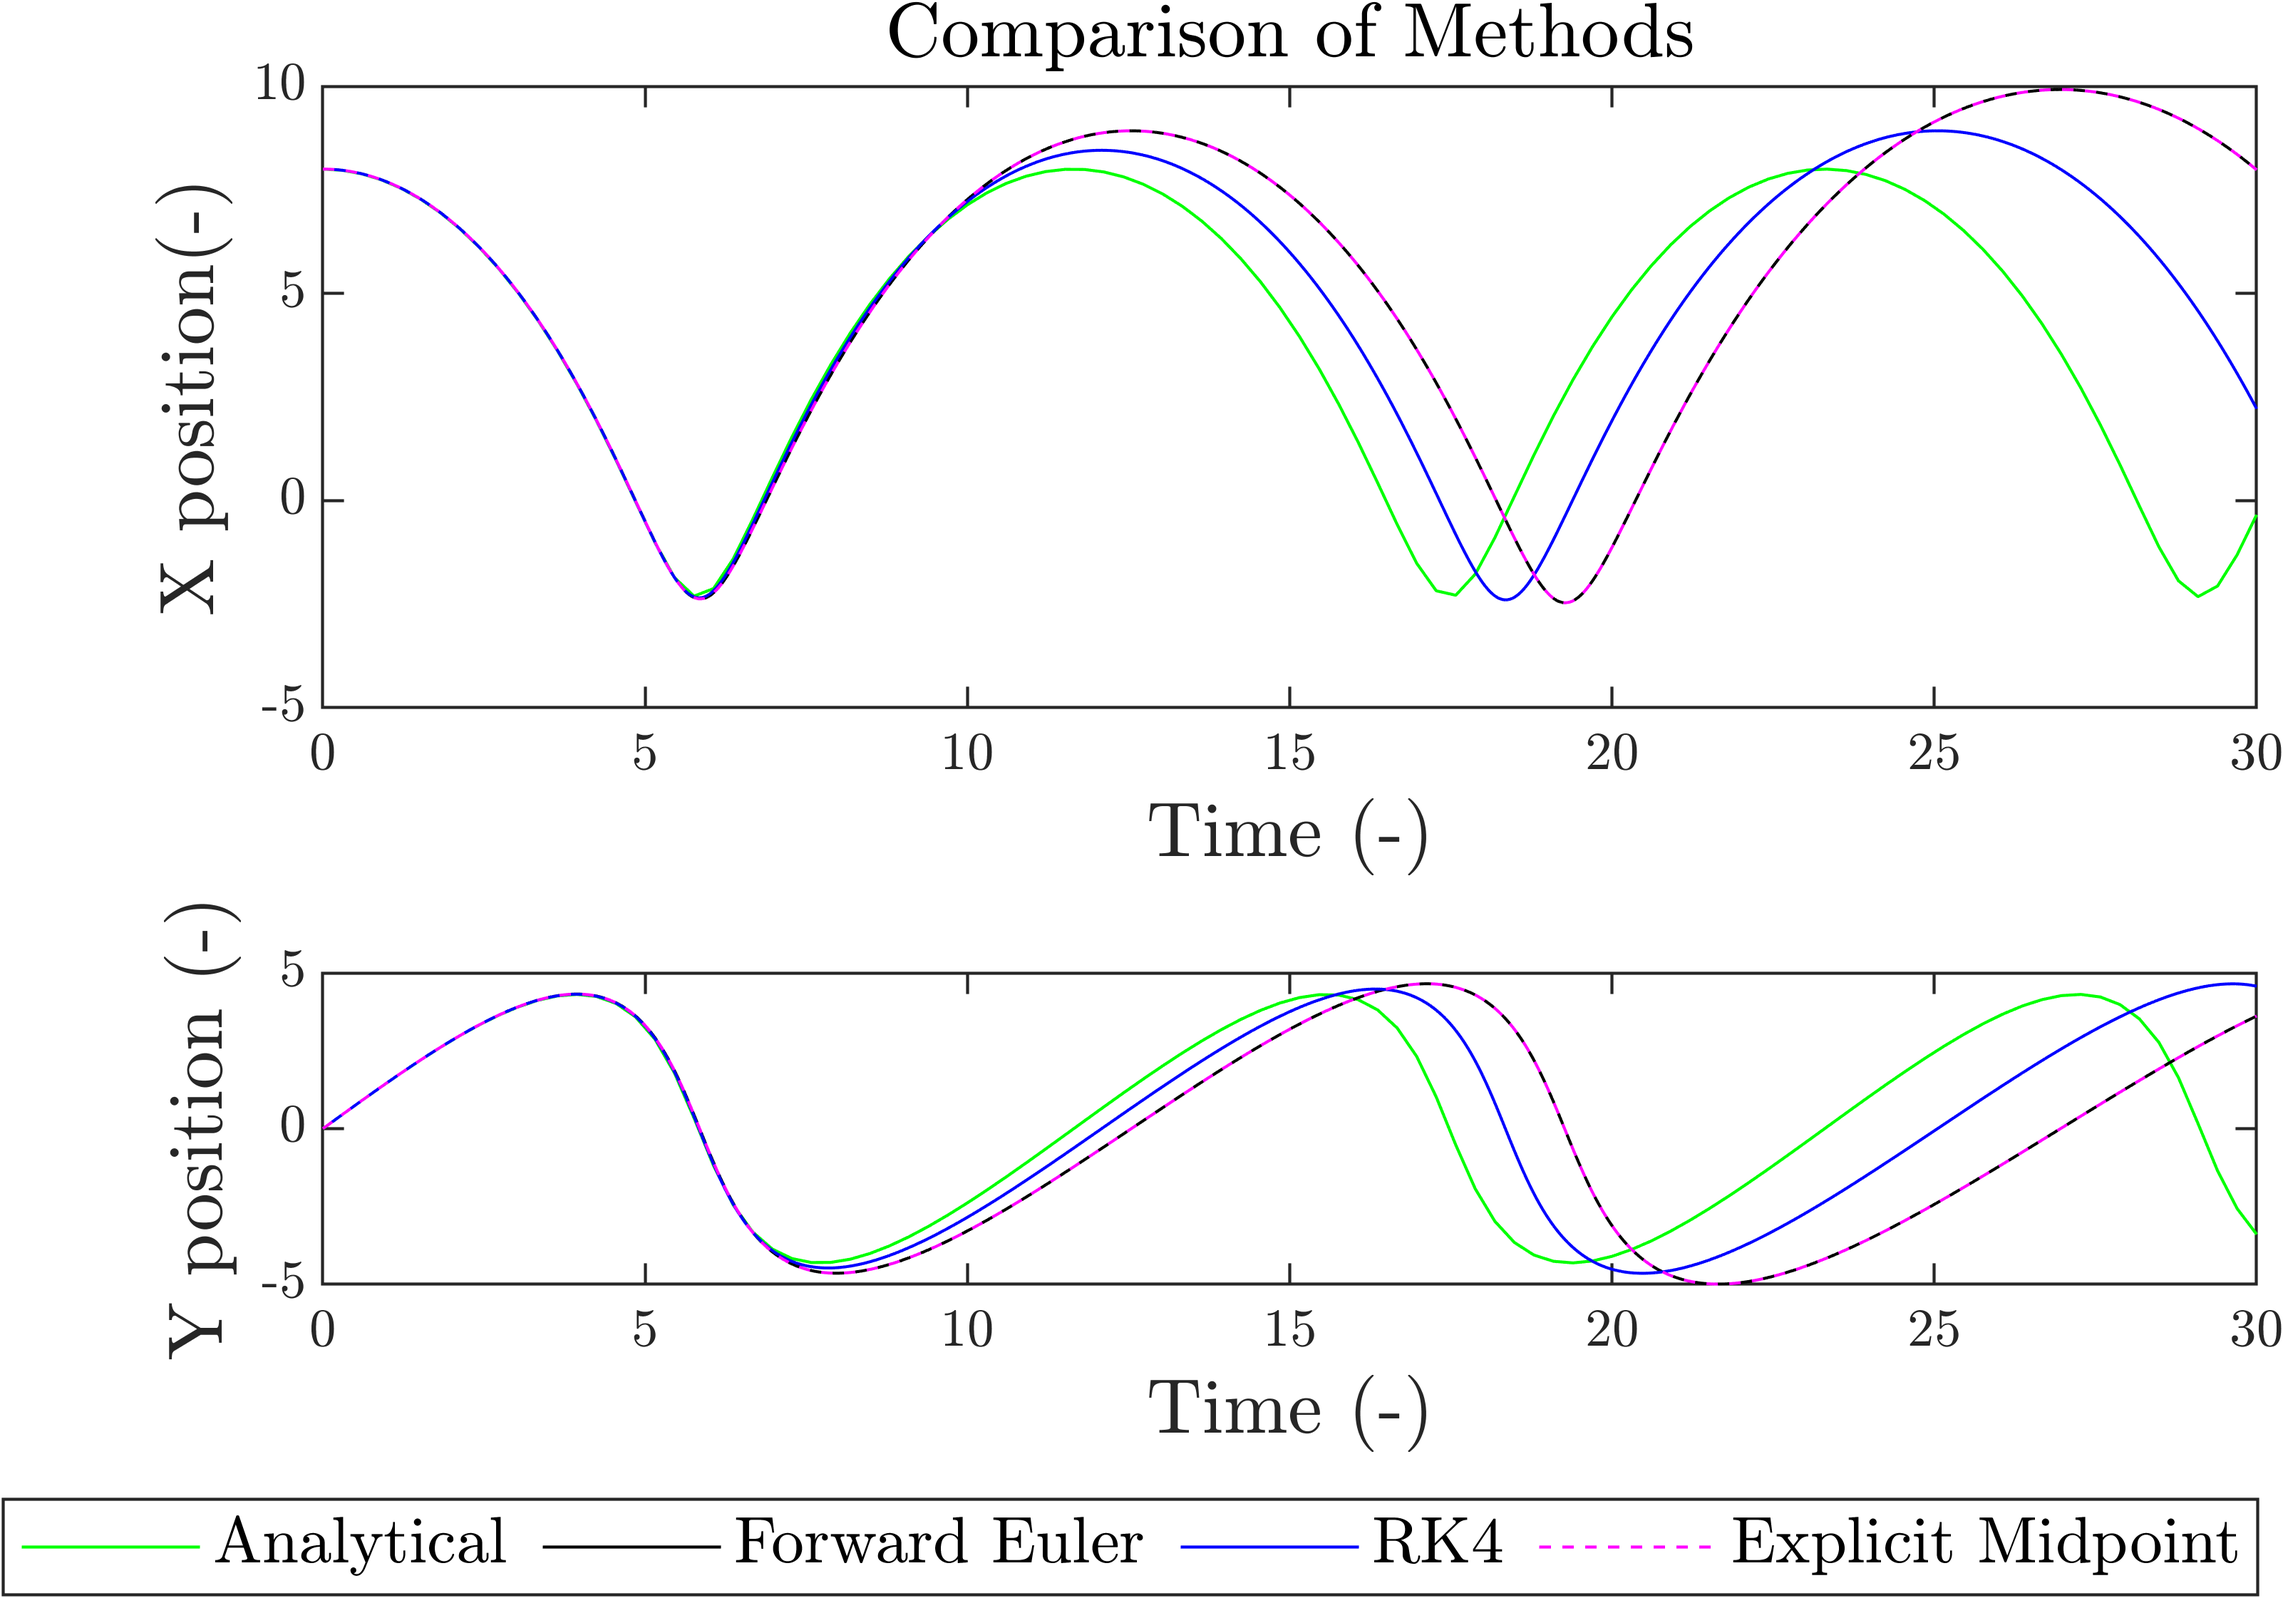
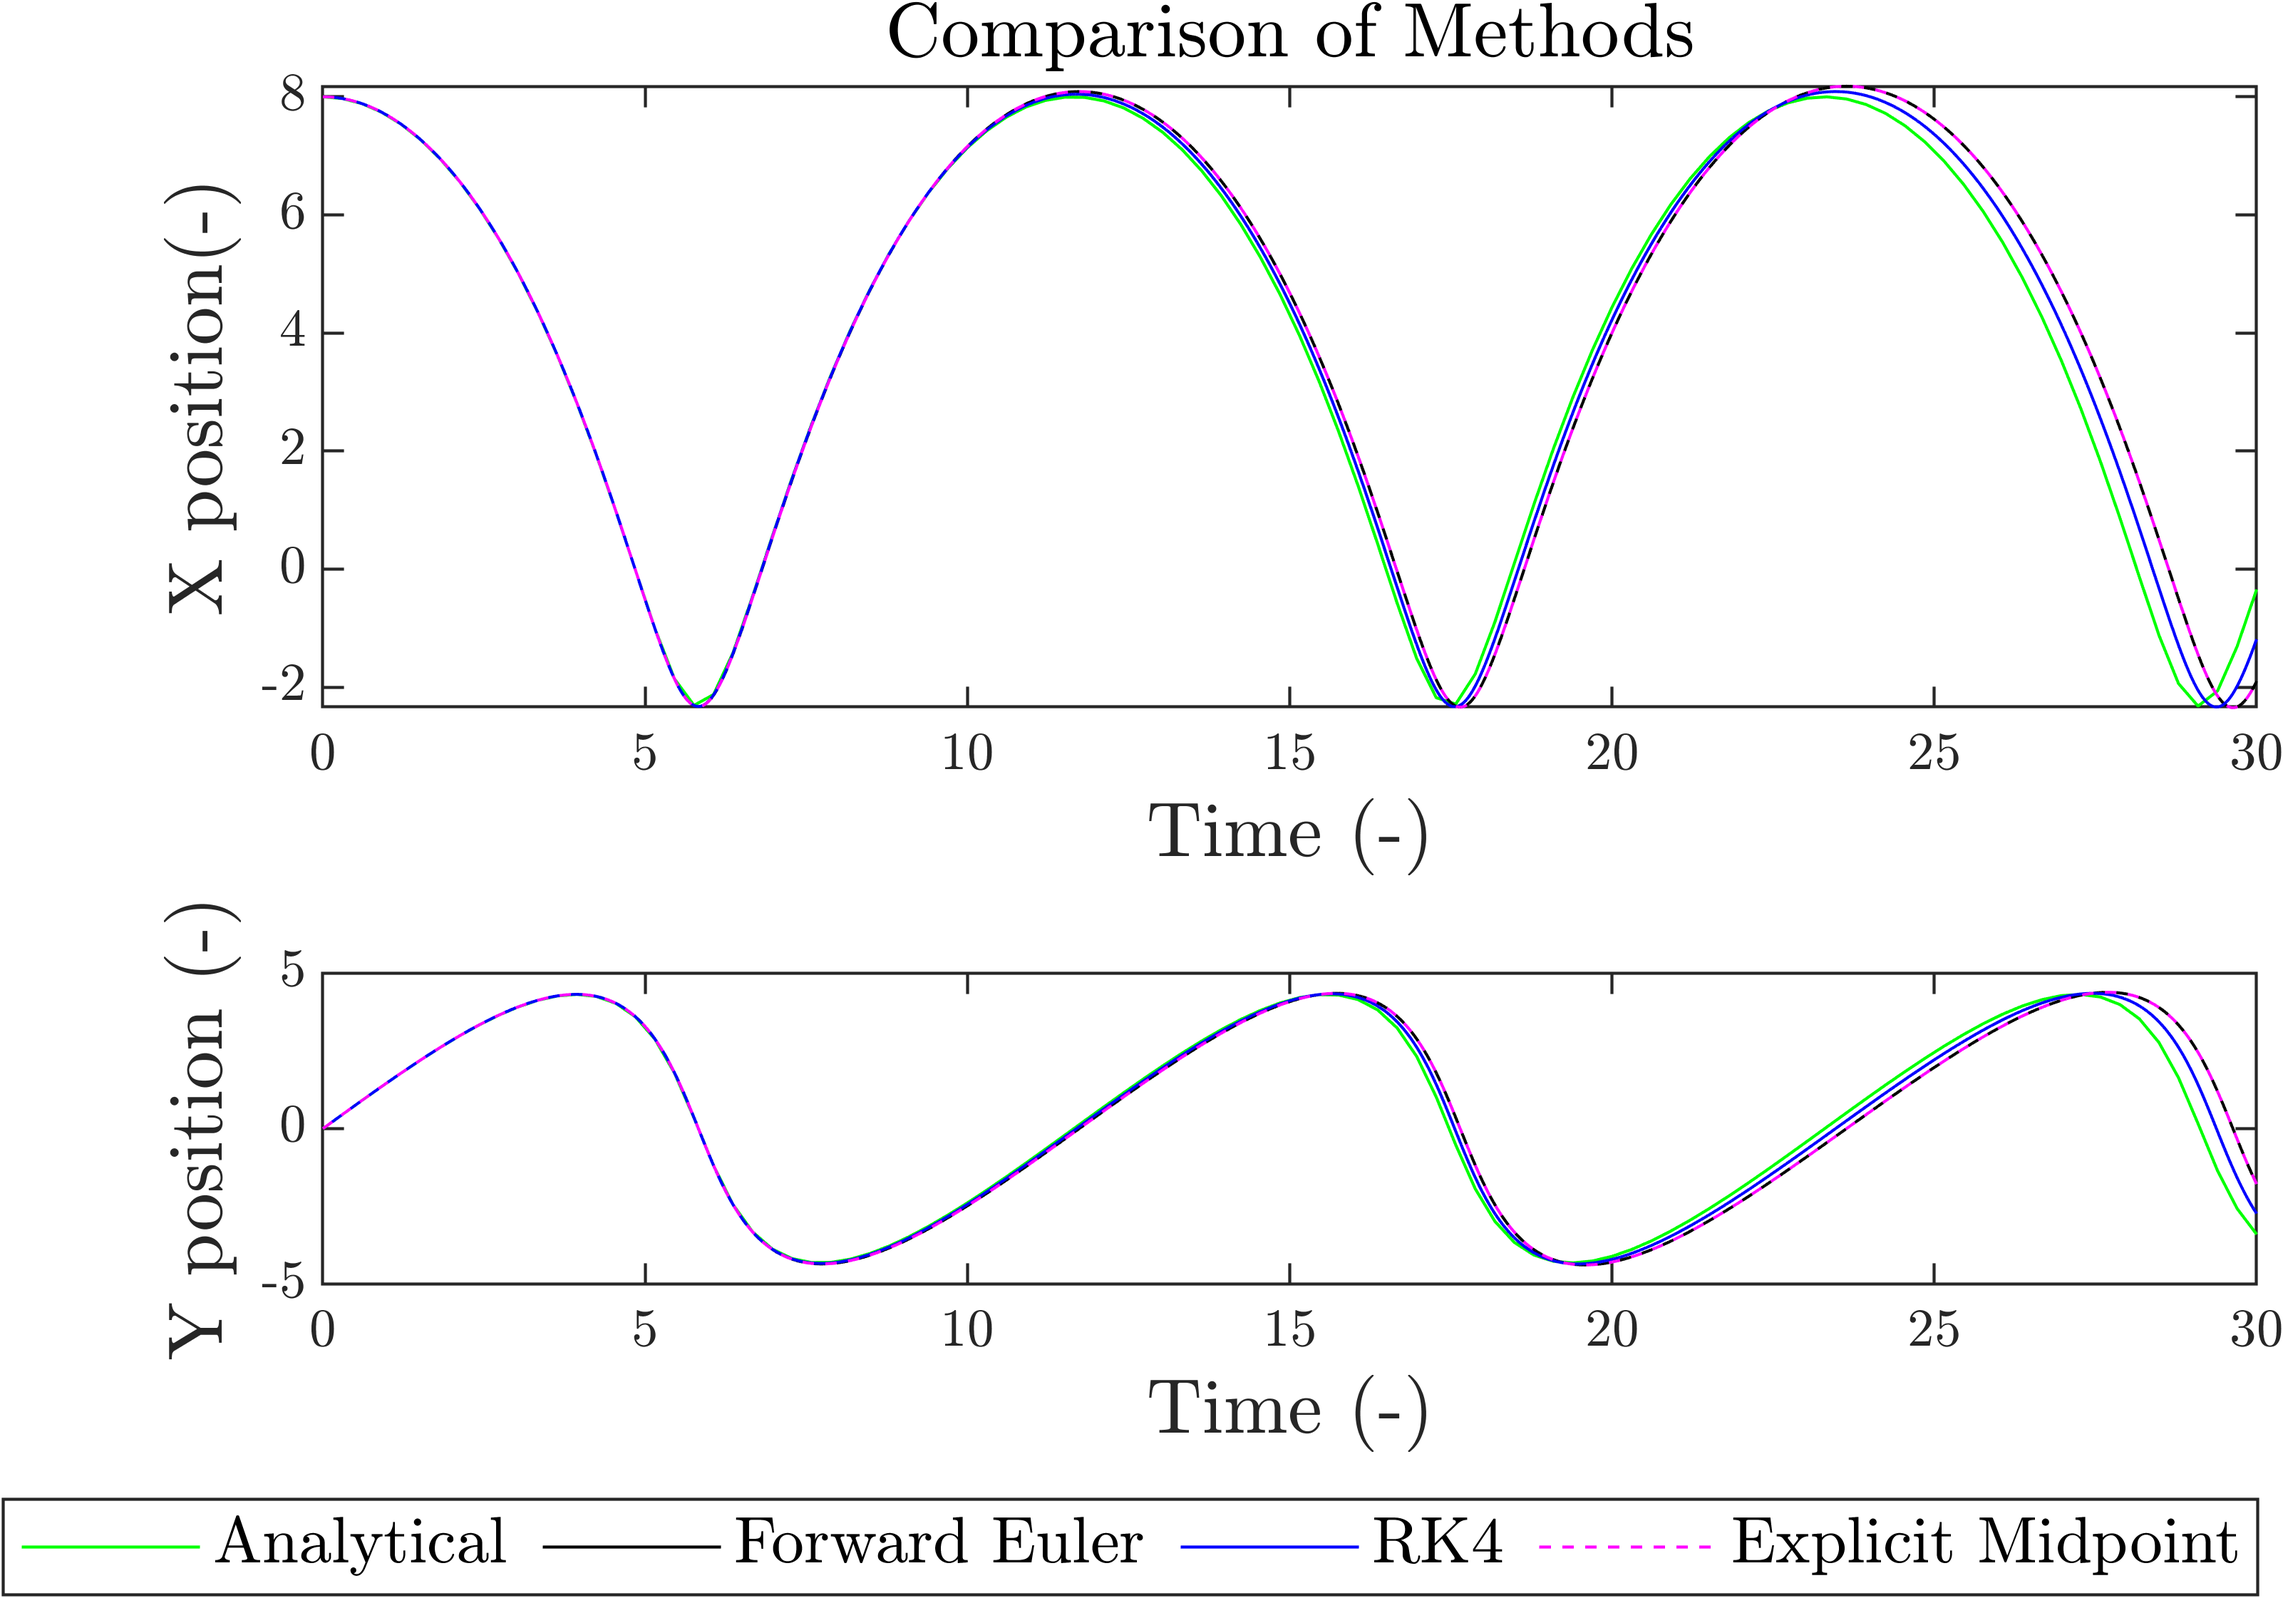
local err plot
:p

diff --git a/embedded_RK_error_table.m b/embedded_RK_error_table.m
@@ -1,5 +1,10 @@
 close all;
 clear;
+
+set(groot, 'defaultTextInterpreter', 'latex');
+set(groot, 'defaultAxesTickLabelInterpreter', 'latex');
+set(groot, 'defaultLegendInterpreter', 'latex');
+
 % Dormand-Prince Butcher Tableau
 
 DormandPrince = struct();
@@ -65,6 +70,7 @@ h_list = logspace(-2,log10(0.2),80);
 error_DP5 = zeros(size(h_list));
 error_DP4 = zeros(size(h_list));
 error_difference = zeros(size(h_list));
+diffs = zeros(size(h_list));
 
 
 %% Calculate Local Truncation Errors
@@ -74,10 +80,11 @@ for i = 1:length(h_list)
     h = h_list(i);
 
     % Take one embedded Dormand-Prince step
-    [XB1,XB2,~] =  RK_step_embedded(G_rate, t_ref, VA,h,DormandPrince);
+    [XB1,XB2,~, diff] =  RK_step_embedded(G_rate, t_ref, VA,h,DormandPrince);
 
     % Exact state at t_ref + h
     V_exact = compute_planetary_motion(t_ref+h, V0,orbit_params);
+    diffs(i) = norm(V_exact - compute_planetary_motion(t_ref, V0,orbit_params));
 
 
     % Local error of Dormand-Prince 5th-order estimate
@@ -92,6 +99,18 @@ for i = 1:length(h_list)
     error_difference(i) = norm(XB1 - XB2);
 
 end
+
+loglog(h_list, error_DP5, "b.", MarkerSize=10); hold on
+loglog(h_list, error_DP4, "k.", MarkerSize=15); hold on
+loglog(h_list, error_difference, "r.", MarkerSize=10);
+loglog(h_list, diffs, "g.", MarkerSize=10);
+title("Local Truncation Error for Dormand-Prince",'FontSize',13);
+xlabel("$h_{avg} (-)$ ",'FontSize',13);
+ylabel("Local Truncation error $(-)$",'FontSize',13)
+legend("Dorman-Prince 5th order error", "Dormand-Prince 4th order error", "Method difference", "$|f(t_{ref} + h) -  f(t_{ref})|$", 'FontSize',11, "Location", "west")
+myfig = gcf();
+exportgraphics(myfig , 'global_err_dp45diff.png', 'Resolution', 600);
+
 
 
 %% Choose Region for Regression
@@ -126,24 +145,27 @@ p_difference = coeff_difference(1);
 
 %% Create Table
 
-Method = ["Dormand-Prince 5th-order estimate";
-     "Dormand-Prince 4th-order estimate";
-     "|XB1 - XB2|"];
+% Method = ["Dormand-Prince 5th-order estimate";
+%      "Dormand-Prince 4th-order estimate";
+%      "|XB1 - XB2|"];
+% 
+% Scaling_p = round([p_DP5;
+%                     p_DP4;
+%                 p_difference], 3);
+% 
+% Embedded_RK_Table = table(Method, Scaling_p, 'VariableNames',{'Method','p'});
+% 
+% disp(Embedded_RK_Table);
 
-Scaling_p = round([p_DP5;
-                    p_DP4;
-                p_difference], 3);
 
-Embedded_RK_Table = table(Method, Scaling_p, 'VariableNames',{'Method','p'});
-
-disp(Embedded_RK_Table);
 
 %% Helper Functions
 
 
-% Computes one step using an embedded explicit Runge-Kutta method
-function [XB1,XB2,num_evals] = RK_step_embedded( rate_func_in,t,XA,h,BT_struct)
 
+% Computes one step using an embedded explicit Runge-Kutta method
+function [XB1,XB2,num_evals, diff] = RK_step_embedded( rate_func_in,t,XA,h,BT_struct)
+    diff = norm(rate_func_in(t + h, XA) - rate_func_in(t, XA));
     % Extract Butcher tableau
     A = BT_struct.A;
     B = BT_struct.B;

diff --git a/RK_step_embedded.m b/RK_step_embedded.m
@@ -1,0 +1,35 @@
+%This function computes the value of X at the next time step
+%for any arbitrary embedded RK method
+%INPUTS:
+%rate_func_in: the function used to compute dXdt. rate_func_in will
+% have the form: dXdt = rate_func_in(t,X) (t is before X)
+%t: the value of time at the current step
+%XA: the value of X(t)
+%h: the time increment for a single step i.e. delta_t = t_{n+1} - t_{n}
+%BT_struct: a struct that contains the Butcher tableau
+% BT_struct.A: matrix of a_{ij} values
+% BT_struct.B: vector of b_i values
+% BT_struct.C: vector of c_i values
+%OUTPUTS:
+%XB1: the approximate value for X(t+h) using the first row of the Tableau
+%XB2: the approximate value for X(t+h) using the second row of the Tableau
+%num_evals: A count of the number of times that you called
+% rate_func_in when computing the next step
+function [XB1, XB2, num_evals] = RK_step_embedded(rate_func_in,t,XA,h,BT_struct)
+    A=BT_struct.A;
+    B=BT_struct.B;
+    C=BT_struct.C;
+    num_evals_temp = 0;
+    total=length(B);
+    K = zeros(length(XA), total);
+    K(:, 1) = rate_func_in(t, XA);
+
+    for i=2:total
+        sum_val1 = K*(A(i-1,:)');
+        K(:, i)=rate_func_in(t+C(i)*h,XA+h*sum_val1);
+        num_evals_temp=num_evals_temp+1;
+    end
+    sum_val2 = K*B;
+  
+    XB=XA+h*sum_val2;
+end

diff --git a/error_calcs.m b/error_calcs.m
@@ -18,7 +18,7 @@ function error_calcs()
     BT_em.B=[0;1];
     BT_em.C=[0; 0.5];
 
-    hs = logspace(-4.5,-1,10);
+    hs = logspace(-3,-1,100);
 
     global_errors_fe = zeros(size(hs));
     global_errors_em = zeros(size(hs));
@@ -28,7 +28,7 @@ function error_calcs()
     h_avg_list_em = zeros(size(hs));
     h_avg_list_rk = zeros(size(hs));
 
-    time_int = [0, 100];
+    time_int = [0, 10];
 
     orbit_params = struct();
     orbit_params.m_sun = 1;
@@ -40,7 +40,7 @@ function error_calcs()
     dydt0 = 1.5;
 
     V0 = [x0;y0;dxdt0;dydt0];
-    t_range = linspace(0,30,100);
+    t_range = linspace(0,10,100);
     V_list = compute_planetary_motion(t_range,V0,orbit_params);
     h_ref=0.005;
 

diff --git a/local_error_calcs.m b/local_error_calcs.m
@@ -1,0 +1,14 @@
+function local_error_calcs()
+    DormandPrince = struct();
+    DormandPrince.C = [0, 1/5, 3/10, 4/5, 8/9, 1, 1];
+    DormandPrince.B = [35/384, 0, 500/1113, 125/192, -2187/6784, 11/84, 0;...
+    5179/57600, 0, 7571/16695, 393/640, -92097/339200, 187/2100, 1/40];
+    DormandPrince.A = [0,0,0,0,0,0,0;
+    1/5, 0, 0, 0,0,0,0;...
+    3/40, 9/40, 0, 0, 0, 0,0;...
+    44/45, -56/15, 32/9, 0, 0, 0,0;...
+    19372/6561, -25360/2187, 64448/6561, -212/729, 0, 0,0;...
+    9017/3168, -355/33, 46732/5247, 49/176, -5103/18656, 0,0;...
+    35/384, 0, 500/1113, 125/192, -2187/6784, 11/84,0];
+    
+end

diff --git a/explicit_RK_step.m b/explicit_RK_step.m
@@ -26,7 +26,7 @@ function [XB, num_evals_temp] = explicit_RK_step(rate_func_in,t,XA,h,BT_struct)
 
     for i=2:total
         sum_val1 = K*(A(i-1,:)');
-        K(:, i)=rate_func_in(t+C(i-1)*h,XA+h*sum_val1);
+        K(:, i)=rate_func_in(t+C(i)*h,XA+h*sum_val1);
         num_evals_temp=num_evals_temp+1;
     end
     sum_val2 = K*B;

diff --git a/usage_example_forwardE.m b/usage_example_forwardE.m
@@ -37,7 +37,7 @@ function usage_example_forwardE()
     V0 = [x0;y0;dxdt0;dydt0];
     t_range = linspace(0,30,100);
     V_list = compute_planetary_motion(t_range,V0,orbit_params);
-    h_ref=0.005;
+    h_ref=0.0005;
 
     G_rate= @(t,v) gravity_rate_func(t, v,orbit_params);
     
